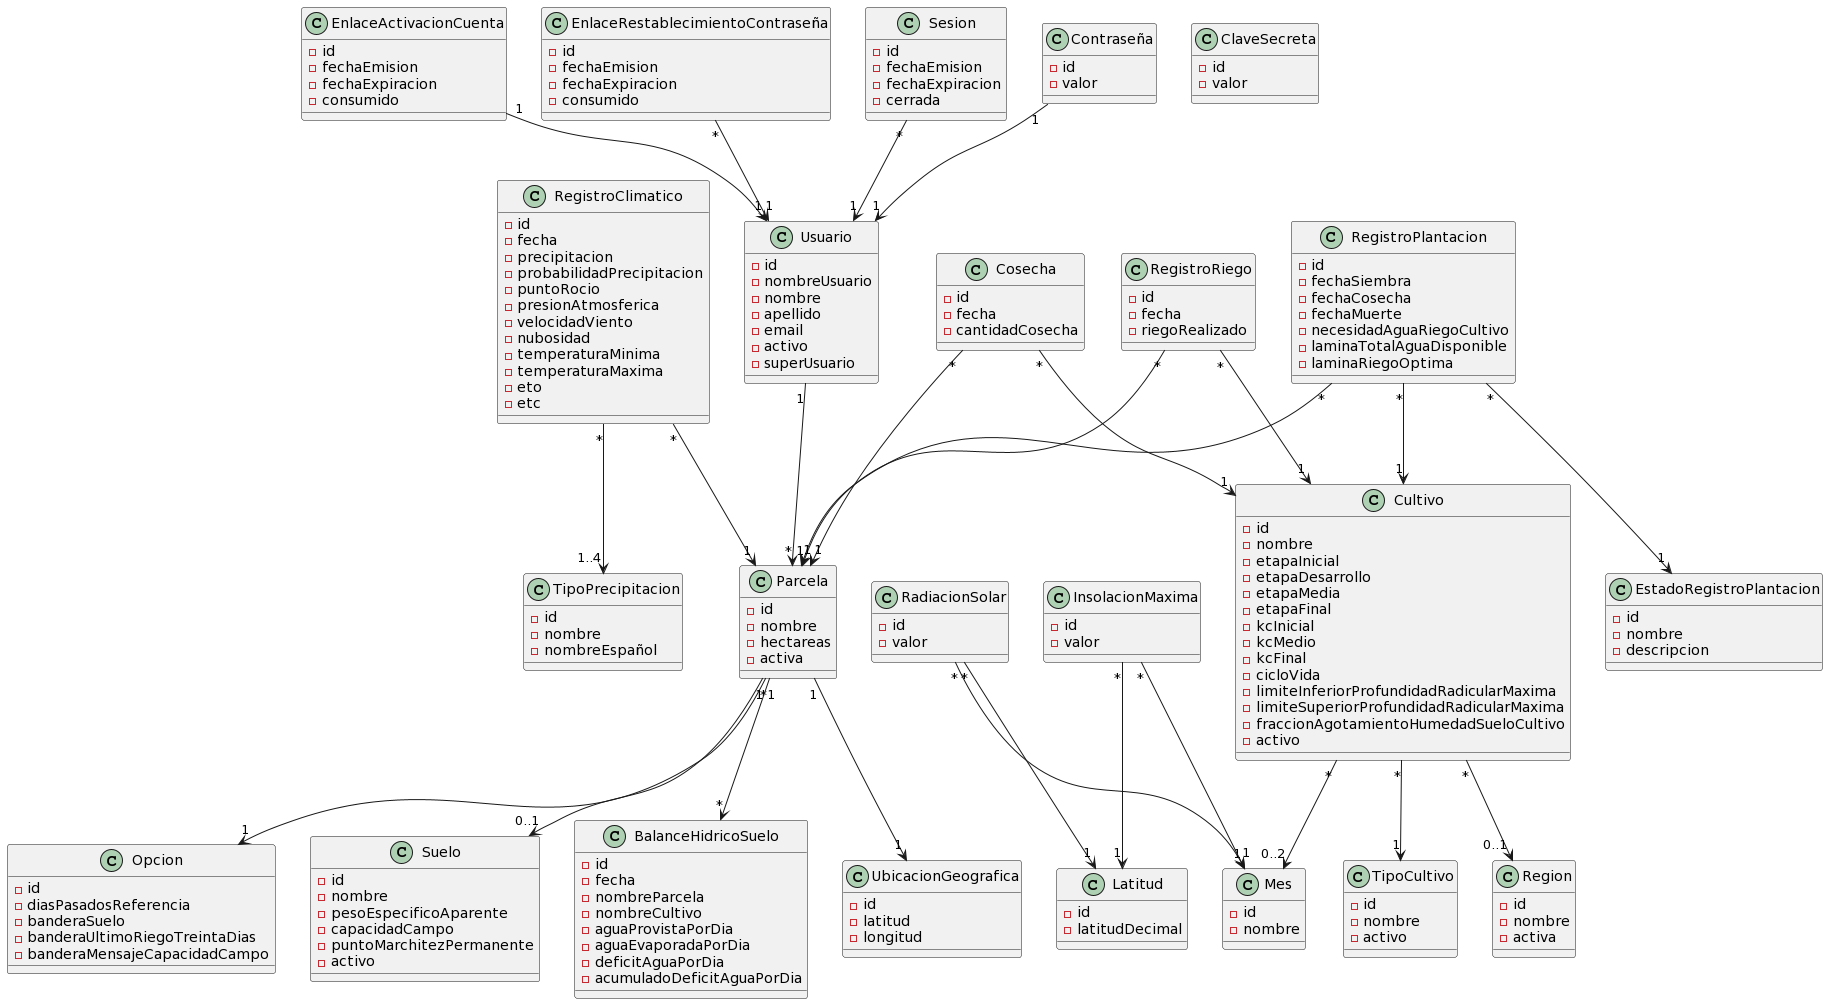
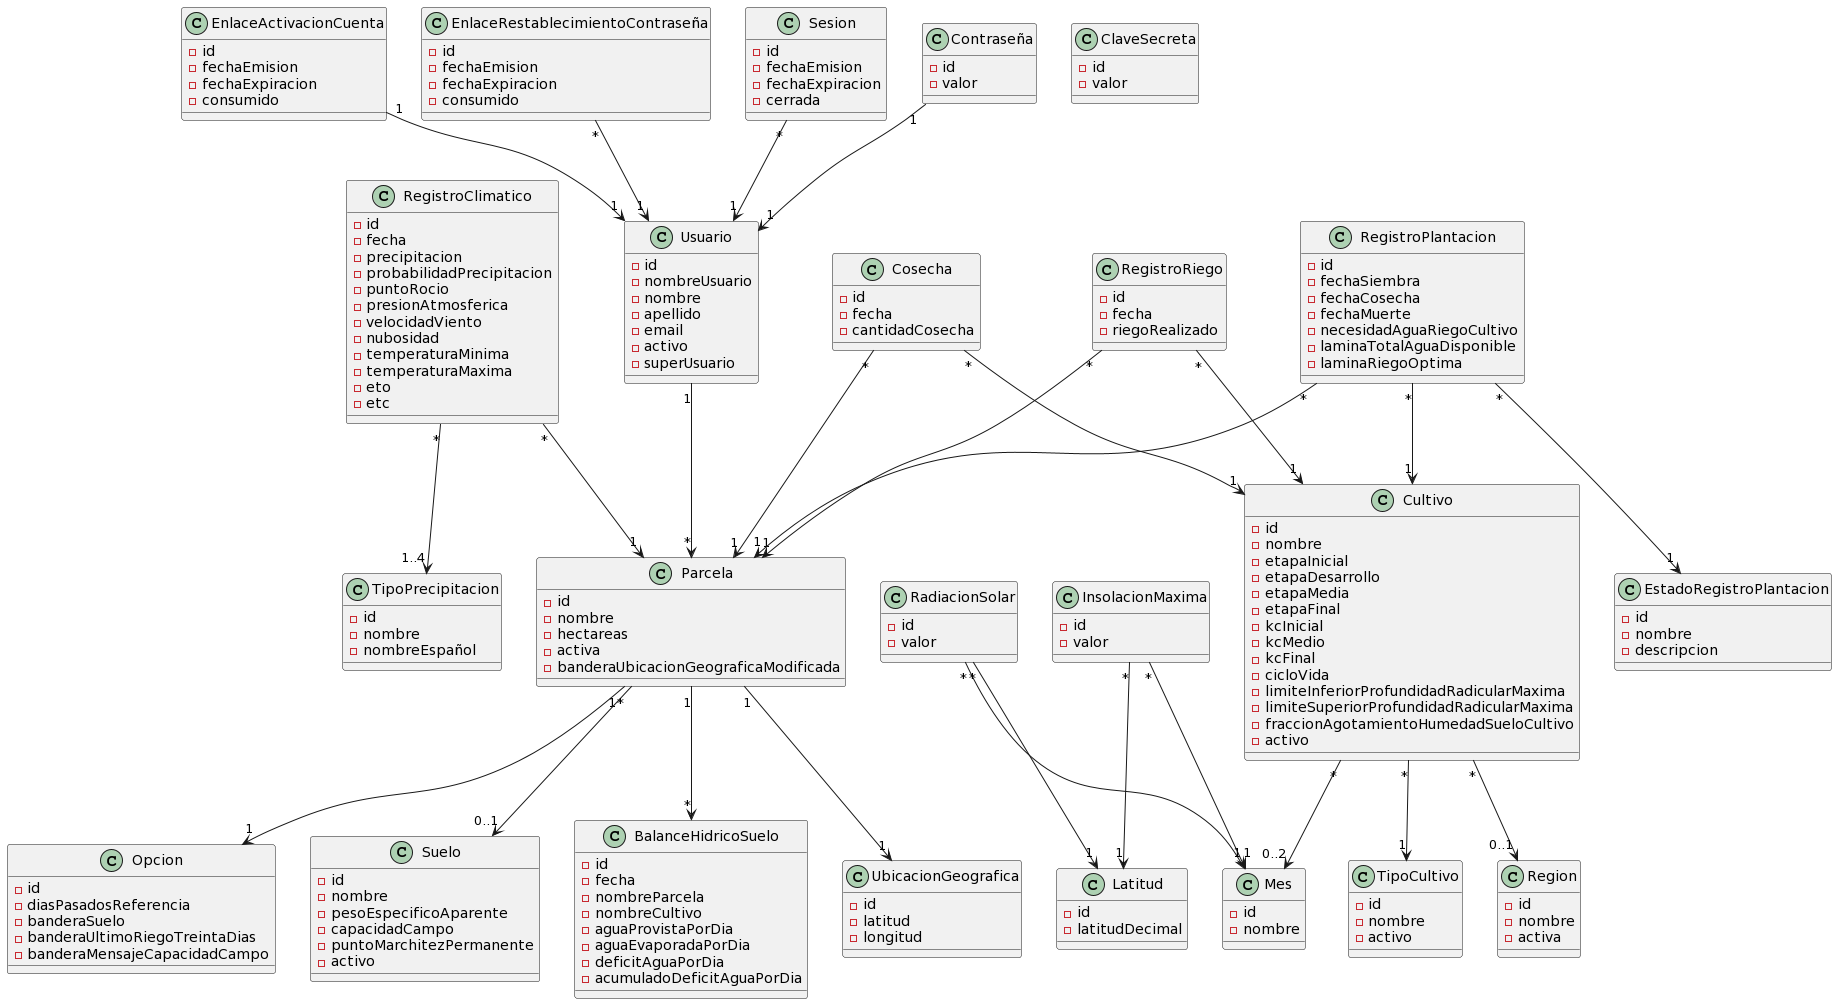
Finalización de la subtarea 2 de la tarea 392, tarea #392 terminada

diff --git a/app/src/plantingRecord/PlantingRecordManager.java b/app/src/plantingRecord/PlantingRecordManager.java
@@ -633,22 +633,25 @@ public class PlantingRecordManager {
 
             /*
              * Si una parcela NO tiene un registro climatico perteneciente
-             * a una fecha, se lo solicita al servicio meteorologico utilizado
-             * y se lo persiste. En cambio, si lo tiene, se solicitan
-             * nuevamente los datos meteorologicos correspondientes a una
-             * fecha y a la ubicacion geografica de una parcela, los cuales
-             * se utilizan para actualizar el registro climatico correspondiente
-             * a una fecha y a una parcela. Este paso es necesario por si
-             * se modifican las coordenadas geograficas de una parcela. Si
-             * una parcela tiene registros climaticos que fueron obtenidos
-             * cuando tenia determinadas coordenadas geograficas y luego estas
-             * se modifican, se deben actualizar los datos de los registros
-             * climaticos de una parcela.
+             * a una fecha, se lo solicita al servicio meteorologico
+             * utilizado y se lo persiste
              */
             if (!climateRecordService.checkExistence(pastDate, parcel)) {
                 newClimateRecord = ClimateClient.getForecast(parcel, pastDate, typePrecipService.findAll());
                 climateRecordService.create(newClimateRecord);
-            } else {
+            }
+
+            /*
+             * Si existe el registro climatico perteneciente a una parcela
+             * y una fecha y si la ubicacion geografica de una parcela fue
+             * modificada, se solicitan los datos meteorologicos correspondientes
+             * a una fecha y una nueva ubicacion geografica. Esto es necesario
+             * para actualizar los datos meteorologicos de los registros
+             * climaticos comprendidos en un periodo definido por dos fechas
+             * pertenecientes a una parcela que fueron obtenidos antes de la
+             * modificacion de la ubicacion geografica de la misma.
+             */
+            if (climateRecordService.checkExistence(pastDate, parcel) && parcel.getModifiedGeographicLocationFlag()) {
                 climateRecord = climateRecordService.find(pastDate, parcel);
                 climateRecordService.modify(climateRecord.getId(), ClimateClient.getForecast(parcel, pastDate, typePrecipService.findAll()));
             }
@@ -659,6 +662,21 @@ public class PlantingRecordManager {
              * correspondiente a una fecha pasada
              */
             pastDate.set(Calendar.DAY_OF_YEAR, pastDate.get(Calendar.DAY_OF_YEAR) + 1);
+        } // End for
+
+        /*
+         * Luego de actualizar los registros climaticos comprendidos en
+         * un periodo definido por dos fechas pertenecientes a una parcela,
+         * con los datos meteorologicos de las fechas de dicho periodo y de
+         * la nueva ubicacion geografica de una parcela, se establece la
+         * bandera modifiedGeographicLocationFlag de una parcela en false
+         * para evitar que la aplicacion solicite nuevamente los datos
+         * meteorologicos de la nueva ubicacion geografica de una parcela
+         * al calcular la necesidad de agua de riego de un cultivo (en
+         * desarrollo) en la fecha actual
+         */
+        if (parcel.getModifiedGeographicLocationFlag()) {
+            parcelService.unsetModifiedGeographicLocationFlag(parcel.getId());
         }
 
     }

diff --git a/app/src/servlet/PlantingRecordRestServlet.java b/app/src/servlet/PlantingRecordRestServlet.java
@@ -2467,22 +2467,25 @@ public class PlantingRecordRestServlet {
 
       /*
        * Si una parcela NO tiene un registro climatico perteneciente
-       * a una fecha, se lo solicita al servicio meteorologico utilizado
-       * y se lo persiste. En cambio, si lo tiene, se solicitan
-       * nuevamente los datos meteorologicos correspondientes a una
-       * fecha y a la ubicacion geografica de una parcela, los cuales
-       * se utilizan para actualizar el registro climatico correspondiente
-       * a una fecha y a una parcela. Este paso es necesario por si
-       * se modifican las coordenadas geograficas de una parcela. Si
-       * una parcela tiene registros climaticos que fueron obtenidos
-       * cuando tenia determinadas coordenadas geograficas y luego estas
-       * se modifican, se deben actualizar los datos de los registros
-       * climaticos de una parcela.
+       * a una fecha, se lo solicita al servicio meteorologico
+       * utilizado y se lo persiste
        */
       if (!climateRecordService.checkExistence(pastDate, parcel)) {
         newClimateRecord = ClimateClient.getForecast(parcel, pastDate, typePrecipService.findAll());
         climateRecordService.create(newClimateRecord);
-      } else {
+      }
+
+      /*
+       * Si existe el registro climatico perteneciente a una parcela
+       * y una fecha y si la ubicacion geografica de una parcela fue
+       * modificada, se solicitan los datos meteorologicos correspondientes
+       * a una fecha y una nueva ubicacion geografica. Esto es necesario
+       * para actualizar los datos meteorologicos de los registros
+       * climaticos comprendidos en un periodo definido por dos fechas
+       * pertenecientes a una parcela que fueron obtenidos antes de la
+       * modificacion de la ubicacion geografica de la misma.
+       */
+      if (climateRecordService.checkExistence(pastDate, parcel) && parcel.getModifiedGeographicLocationFlag()) {
         climateRecord = climateRecordService.find(pastDate, parcel);
         climateRecordService.modify(climateRecord.getId(), ClimateClient.getForecast(parcel, pastDate, typePrecipService.findAll()));
       }
@@ -2493,6 +2496,21 @@ public class PlantingRecordRestServlet {
        * correspondiente a una fecha pasada
        */
       pastDate.set(Calendar.DAY_OF_YEAR, pastDate.get(Calendar.DAY_OF_YEAR) + 1);
+    } // End for
+
+    /*
+     * Luego de actualizar los registros climaticos comprendidos en
+     * un periodo definido por dos fechas pertenecientes a una parcela,
+     * con los datos meteorologicos de las fechas de dicho periodo y de
+     * la nueva ubicacion geografica de una parcela, se establece la
+     * bandera modifiedGeographicLocationFlag de una parcela en false
+     * para evitar que la aplicacion solicite nuevamente los datos
+     * meteorologicos de la nueva ubicacion geografica de una parcela
+     * al calcular la necesidad de agua de riego de un cultivo (en
+     * desarrollo) en la fecha actual
+     */
+    if (parcel.getModifiedGeographicLocationFlag()) {
+      parcelService.unsetModifiedGeographicLocationFlag(parcel.getId());
     }
 
   }

diff --git a/app/src/stateless/ParcelServiceBean.java b/app/src/stateless/ParcelServiceBean.java
@@ -97,6 +97,30 @@ public class ParcelServiceBean {
   }
 
   /**
+   * Establece la bandera modifiedGeographicLocationFlag de una
+   * parcela en true
+   * 
+   * @param parcelId
+   */
+  public void setModifiedGeographicLocationFlag(int parcelId) {
+    Query query = entityManager.createQuery("UPDATE Parcel p SET p.modifiedGeographicLocationFlag = TRUE WHERE p.id = :parcelId");
+    query.setParameter("parcelId", parcelId);
+    query.executeUpdate();
+  }
+
+  /**
+   * Establece la bandera modifiedGeographicLocationFlag de una
+   * parcela en false
+   * 
+   * @param parcelId
+   */
+  public void unsetModifiedGeographicLocationFlag(int parcelId) {
+    Query query = entityManager.createQuery("UPDATE Parcel p SET p.modifiedGeographicLocationFlag = FALSE WHERE p.id = :parcelId");
+    query.setParameter("parcelId", parcelId);
+    query.executeUpdate();
+  }
+
+  /**
    * Segun la documentacion web de la clase EntityManager, el metodo
    * merge() de esta clase fusiona el estado de una entidad en el
    * contexto de persistencia actual.

diff --git a/app/src/servlet/ParcelRestServlet.java b/app/src/servlet/ParcelRestServlet.java
@@ -1209,10 +1209,14 @@ public class ParcelRestServlet {
     /*
      * Si la latitud y/o la longitud de la ubicacion geografica de
      * una parcela es modificada, se actualiza la latitud y/o longitud
-     * de la ubicacion geografica en la base de datos subyacente
+     * de la ubicacion geografica en la base de datos subyacente y la
+     * bandera modifiedGeographicLocationFlag de una parcela se establece
+     * en true para hacer que la aplicacion obtenga los datos meteorologicos
+     * de la nueva ubicacion geografica
      */
     if (modifiedParcel.getGeographicLocation().getLatitude() != currentLatitude || modifiedParcel.getGeographicLocation().getLongitude() != currentLongitude) {
       geographicLocationService.modify(currentGeographicLocation.getId(), modifiedParcel.getGeographicLocation());
+      parcelService.setModifiedGeographicLocationFlag(parcelId);
     }
 
     /*

diff --git a/app/src/model/Parcel.java b/app/src/model/Parcel.java
@@ -33,6 +33,9 @@ public class Parcel {
   @Column(name = "ACTIVE", nullable = false)
   private boolean active;
 
+  @Column(name = "MODIFIED_GEOGRAPHIC_LOCATION_FLAG")
+  private boolean modifiedGeographicLocationFlag;
+
   @OneToOne(cascade = CascadeType.PERSIST)
   @JoinColumn(name = "FK_GEOGRAPHIC_LOCATION", nullable = false, unique = true)
   private GeographicLocation geographicLocation;
@@ -114,6 +117,14 @@ public class Parcel {
    */
   public void setActive(boolean active) {
     this.active = active;
+  }
+
+  public boolean getModifiedGeographicLocationFlag() {
+    return modifiedGeographicLocationFlag;
+  }
+
+  public void setModifiedGeographicLocationFlag(boolean modifiedGeographicLocationFlag) {
+    this.modifiedGeographicLocationFlag = modifiedGeographicLocationFlag;
   }
 
   public GeographicLocation getGeographicLocation() {
